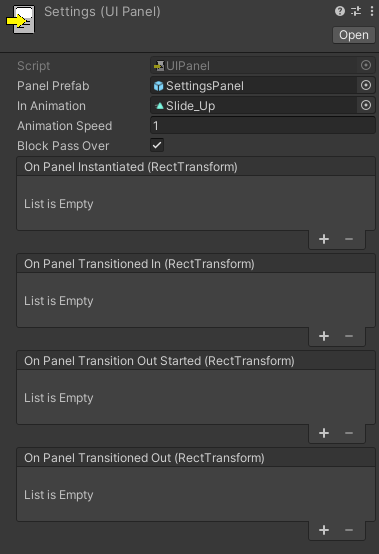
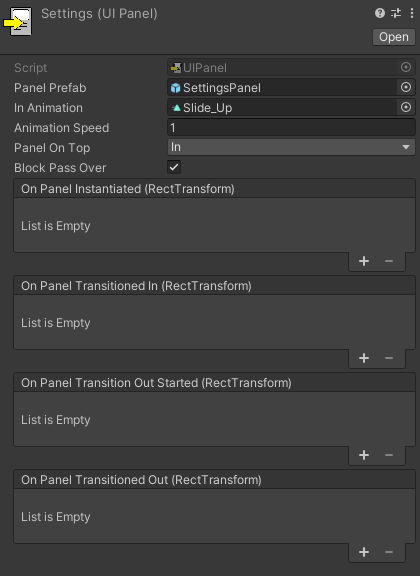
added ability to clear out parent earlier in transition and specify which animation should be on top

diff --git a/Assets/UIManager/Scripts/UIPanel.cs b/Assets/UIManager/Scripts/UIPanel.cs
@@ -22,6 +22,11 @@ namespace Rellac.UI
 		[Tooltip("Speed in seconds to run transition animation")]
 		public float animationSpeed = 1;
 		/// <summary>
+		/// Panel rendered on top during this transition
+		/// </summary>
+		[Tooltip("Panel rendered on top during this transition")]
+		public ParentSelection panelOnTop;
+		/// <summary>
 		/// Enable click blocker behind this panel
 		/// </summary>
 		[Tooltip("Enable click blocker behind this panel")]
@@ -78,6 +83,12 @@ namespace Rellac.UI
 		{
 			yield return new WaitForSeconds(inAnimation.length * animationSpeed);
 			onPanelTransitionedIn.Invoke(parent);
+		}
+
+		public enum ParentSelection
+		{
+			In,
+			Out
 		}
 
 	}

diff --git a/Assets/UIManager/Scripts/UIAnimationClear.cs b/Assets/UIManager/Scripts/UIAnimationClear.cs
@@ -1,0 +1,26 @@
+using UnityEngine;
+namespace Rellac.UI
+{
+	/// <summary>
+	/// This class exists as a way for an animation to clear the out parent earlier than at the end of the transition if needed
+	/// </summary>
+	public class UIAnimationClear : MonoBehaviour
+	{
+		/// <summary>
+		/// Parent to clear on call
+		/// </summary>
+		[Tooltip("Parent to clear on call")]
+		[SerializeField] private Transform outParent = null;
+
+		/// <summary>
+		/// Clear all children under specified parent
+		/// </summary>
+		public void ClearOutParent()
+		{
+			foreach (Transform child in outParent)
+			{
+				Destroy(child.gameObject);
+			}
+		}
+	}
+}

diff --git a/Assets/UIManager/Scripts/UIManager.cs b/Assets/UIManager/Scripts/UIManager.cs
@@ -85,6 +85,9 @@ namespace Rellac.UI
 
 			clickBlocker.SetActive(true);
 			passOverBlocker.SetActive(input.blockPassOver);
+
+			inParent.SetSiblingIndex(input.panelOnTop == UIPanel.ParentSelection.In ? 2 : 1);
+
 			root.GetComponent<UIFitter>().Fit();
 			foreach (Transform child in inParent)
 			{

diff --git a/README.md b/README.md
@@ -9,7 +9,7 @@ A Simple UI Manager for rapid prototyping and ease of collaboration
 - Very fast to get a prototype up and running
 - Pretty UI Transitions just as easy as GameObject.SetActive()
 - Very simple inspector with minimal inputs, a great way to bridge the experience gap between a developer and a designer
-- Only 5 small scripts control the whole system - not much can possibly break
+- Only 6 small scripts control the whole system - not much can possibly break
 - Use of Animations give an incredible amount of control over transitions
 - No code required
 
@@ -37,7 +37,9 @@ Assign a prefab here to instantiate whenever this UIPanel is called - root will 
 
 Specify here the transition animation that you would like to use. The animation must be listed in the Animator Controller of the UIRoot prefab
 
-The speed of the transition is specified in seconds and you can enable the passover click blocker for your smaller panels to prevent clicking unwanted background buttons
+The speed of the transition is specified in seconds and you specify which panel should be on top during the transition here
+
+You can enable the passover click blocker for your smaller panels to prevent clicking unwanted background buttons
 
 Events are available for whenever this panel is instantiated and when the transitions in/out have ended
 
@@ -67,3 +69,5 @@ under the UI Root prefab animations
 
 Animations should last 1 second each so that we can specify the speed in seconds - don't worry if the transition is
 too fast at 1 second - simply specify a larger time in your UIPanel Object
+
+If you want the out parent to clear its contents early (default is at the end of the transition), simply add an Animation Event to your Animation and call ClearOutParent()
